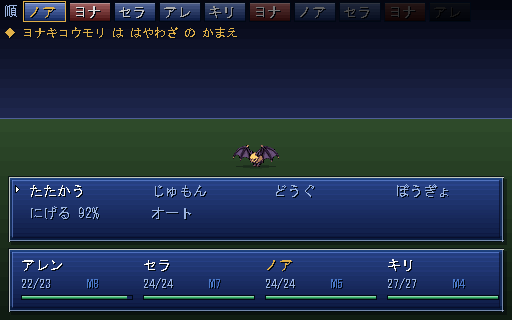
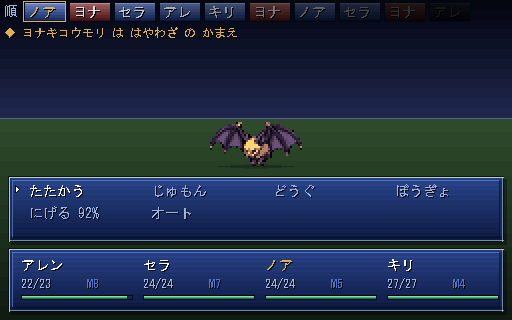
C-3 敵を整数倍（2 倍）で見せる
等倍で出していたので顔も装備も主の格も潰れていた。48x48 や 64x64 を 512x320 に
そのまま置くと SFC 期の敵より小さい。最近傍の 2 倍にした。半端な倍率は使わない
（ドットが滲む）。

位置・影・カーソル・状態・数字を、すべて表示矩形から計算し直した。絵の元寸から
計算していると倍率を変えるたびに全部がずれる。1 行に何体置けるかも表示寸法から
決める（いちばん広い絵に合わせる）。48px が主体で 64px は単体で出る主だけなので、
2 倍でも 3 体並びが収まる。6 体は 2 段で、奥は上へ逃がして右へずらす。

--shot=boss が世界を撮っていたのも直した（_enter_world() の暗転と主戦の閃光が
かち合っていたので、撮影では戦闘だけを立てる）。

Changed region(s): [[0.4062, 0.375, 0.5938, 0.5312]]

diff --git a/tools/tasks_status.py b/tools/tasks_status.py
@@ -4,7 +4,11 @@
 
 終わった項目は tasks.md から消して docs/tasks_archive.md へ移す運用なので、
 tasks.md だけを見ると「ずっと [ ] のまま」に見えて、進んでいないように読める。
-済んだ件数と直近の 5 件を先頭に置いて、動いていることがファイル内で分かるようにする。
+完了記録の行数と直近の 5 行を先頭に置いて、動いていることがファイル内で分かるようにする。
+
+`docs/tasks_archive.md` は現状「1 タスク = 1 行」ではない。ここで数える `- ` は
+完了タスク数ではなく、完了記録の箇条書き行数である。タスクIDから正しい件数を
+出せるようになるまでは、完了件数とは呼ばない。
 
 棚卸し（項目を控えへ移す）をしたら、これを回してヘッダを更新すること。
 """
@@ -20,13 +24,14 @@ done = [ln for ln in archive_text.split("\n") if ln.startswith("- ")]
 recent = done[-5:][::-1]
 
 body = tasks.read_text(encoding="utf-8")
-# 既存のヘッダ（進み具合）を捨ててから付け直す
-body = re.sub(r"## 進み具合.*?(?=## 次にやる)", "", body, flags=re.S)
+# 既存のヘッダ（進み具合）だけを捨ててから付け直す。
+# 完了Gateは進み具合と次の仕事の間にあるので、そこまで消さない。
+body = re.sub(r"## 進み具合.*?(?=## 完了Gate|## 次にやる)", "", body, flags=re.S)
 open_items = len(re.findall(r"^- \[ \]", body, flags=re.M))
 
 header = f"""## 進み具合
 
-**済んだこと {len(done)} 件 / 残り {open_items} 件。**
+**完了記録 {len(done)} 行（実タスク数は再集計待ち） / 残り {open_items} 件。**
 
 終わった項目はここから消して `docs/tasks_archive.md` へ移すので、
 このファイルに `[x]` は残らない。**動いているかどうかは下の「直近に済んだこと」で見る。**
@@ -40,5 +45,10 @@ for line in recent:
 header += "\n"
 
 body = body.replace("## 次にやる", header + "## 次にやる", 1)
-tasks.write_text(body, encoding="utf-8")
-print("済 %d / 残 %d, tasks.md %d 行" % (len(done), open_items, len(body.split("\n"))))
+# Windows でも Markdown は LF に固定する。既存ファイルへ CRLF を混ぜると、
+# `git diff --check` が全追記行を末尾空白として誤検出する。
+with tasks.open("w", encoding="utf-8", newline="\n") as handle:
+    handle.write(body)
+print("完了記録 %d 行 / 残 %d 件, tasks.md %d 行" % (
+    len(done), open_items, len(body.split("\n"))
+))

diff --git a/docs/task_completion_audit.md b/docs/task_completion_audit.md
@@ -1,0 +1,95 @@
+# 完了タスク実情監査
+
+2026-07-31、`docs/tasks_archive.md` の完了記録を現行実装へ逆照合した。
+「ファイルがある」「テスト名がある」ではなく、実行時の結果と、
+検査が失敗側を捕まえるかを完了基準にした。
+
+## 結論
+
+標準検査は一見すべて緑だが、完了とは言えない偽陽性が残っていた。
+未達を `tasks.md` の **棚卸再開 D-1〜D-6** へ戻した。
+町生成ルールの不一致は、既に再開済みの **C-8** で扱う。
+
+| 対象 | 実測 | 判定 |
+| --- | --- | --- |
+| 決定性・データ | `test_core.gd`: 318成功／0失敗 | 通過。ただし未実装が残ることを成功にする検査あり |
+| UI枠 | `check_ui.py`: 23画面、はみ出し0 | 通過。ただし語の直書きと漢字12pxは対象外 |
+| 音 | `verify_audio.py`: 全BGM・SE通過 | 通過 |
+| 候補画像 | `check_candidates.py`: 108／132通過 | 助言用。失敗24件があっても終了コード0 |
+| 実行時アセット | 職15/15、NPC17/17、敵36/36、イベント演出1/4 | 部分接続でも終了コード0 |
+| バランス | 200ラン全周: 到達35%、勝利33% | 目標の到達33%／勝利14%から勝利側が逸脱 |
+
+画面検査後、ユーザーセーブは監査前のSHA-256
[1 lines of base64/hex data omitted]
+へ復元した。
+
+## 未解決だった実情
+
+### D-1: イベントの「効果あり」という表示が事実ではない
+
+`src/quest/event_effects.gd` は11トークンを `INFORMATIONAL` に置き、
+説明だけ出して状態を変えない。対象は64イベント中60件、
+192選択肢中139件に及ぶ。`test_core.gd` は
+「`INFORMATIONAL.size() > 0`」を成功条件にしており、未実装を固定している。
+
+Gateは、既知トークンであることではなく、各トークンが成功時に対応する状態を変え、
+支払不能・危険不発・フォールバックも期待どおりになることを見る。
+
+### D-2: バランス測定が実プレイの部品を通り切っていない
+
+`balance.gd` は戦闘・世界・洞・番人を共有している一方、
+町の宿、店の購入、宝箱、世界イベント、途中で得た装備を使わない。
+現在の固定200ランでは全周71回到達・67回勝利で、到達後の主戦勝率は94%。
+それでも総勝率8〜45%なら「妥当」とするため、目標14%からの逸脱を落とさない。
+
+Gateは、同じシードと方針について実プレイ側とシミュレータ側の
+移動・遭遇・取得・イベント・装備・主戦の列をダイジェスト化して一致させる。
+経路一致後に初めて到達率と勝率の帯を合否に使う。
+
+### D-3: LLMの接続境界が規約と違う
+
+規約は `src/game/chronicle.gd` の1か所だけを接続点とするが、
+実際の `LocalAI.new()` は `src/scenes/main.gd` と
+`src/game/chronicle_ai.gd` の2か所にある。前者は封名とイベント表層を
+プレイ中に要求する。文章だけの差し替えでも、接続点が1か所というGateは満たさない。
+
+Gateでは生成箇所を静的に1件へ限定し、AI成功・失敗・タイムアウトの三経路で
+セーブ、乱数位置、世界構造、イベント結果のダイジェストが一致することを見る。
+
+### D-4: アセットGateが部分接続を成功扱いする
+
+`check_assets.py` はイベント演出を「生成4／参照1」と正しく数える一方、
+部分接続は失敗にせず、最後に「生成済みのものはすべて参照」と表示する。
+検出と合否が分離しているため、完了Gateとしては偽陽性になる。
+
+Gateでは、生成物ごとに「参照済み」またはID付きallowlistのどちらかを要求する。
+生成済みの1枚を参照表から外したfixtureで、終了コード1になることも固定する。
+
+### D-5: 文字規約をUI検査が見ていない
+
+`check_ui.py` は窓からのはみ出しだけを見る。`Terms` を通さない表示文や、
+`PixelUI.SIZE_SUB`（12px）へ漢字を渡す違反は通る。
+現行にもNPC台詞の `north`、イベント画面の「手ばなす」「見送る」などがある。
+
+Gateは描画時に文字列、サイズ、呼び出し元を記録し、漢字14px未満を失敗にする。
+固定UIラベルは `Terms`、差し替える物語語はVocabularyまたは表示用dataから渡し、
+Viewの固定文言直書きを検出する。
+
+### D-6: 「済んだこと194件」はタスク件数ではない
+
+`tools/tasks_status.py` は `docs/tasks_archive.md` の `- ` で始まる全行を数える。
+一つの実装に複数の理由があれば複数件になり、タスクIDもGate証跡も見ていない。
+したがって現在の194は「完了記録の箇条書き行数」であり、完了タスク数ではない。
+
+Gateは全タスクへ一意のIDを付け、控えを1タスク1記録にする。
+完了記録には `Gate:`、実行日、結果を必須とし、ID重複、証跡欠落、
+未完了一覧との重複を終了コード1にする。
+
+## 今後、控えへ移す条件
+
+1. タスク本文の `Gate:` がすべて緑。
+2. 検査器を追加・変更した場合は、壊したfixtureが赤になる。
+3. 見た目は代表画像を保存して目視し、画像パスを控えへ残す。
+4. 数値変更は実プレイと `balance.gd` の両方を残す。
+5. 既知の未実装を別タスクへ分ける場合、双方のIDを相互に記載する。
+6. 控えへはコマンド、結果、日付を含む1件だけを書き、理由の箇条書きを件数に数えない。

diff --git a/tasks.md b/tasks.md
@@ -11,9 +11,20 @@
 
 ---
 
+## 完了Gate
+
+- **コードや画像が「ある」だけでは完了にしない。** 実行時に通る経路と結果を見る。
+- 各タスクを控えへ移す前に、項目内の `Gate:` を実行し、コマンド・結果・日付を
+  `docs/tasks_archive.md` の同じタスクIDへ1件で残す。
+- 検査器を作るタスクは、正常系だけでなく**意図的に壊した入力で終了コード1**も確認する。
+- `INFORMATIONAL`、既知の未接続、手動確認待ちは完了ではない。別の未完了タスクへ
+  ID付きで分離した場合だけ、元タスクを閉じてよい。
+- 見た目は代表画面を保存して目視、音は `verify_audio.py`、数値は `balance.gd`、
+  決定性は `test_core.gd` を通す。詳細は `docs/task_completion_audit.md`。
+
 ## 進み具合
 
-**済んだこと 194 件 / 残り 17 件。**
+**完了記録 198 行（実タスク数は再集計待ち） / 残り 22 件。**
 
 終わった項目はここから消して `docs/tasks_archive.md` へ移すので、
 このファイルに `[x]` は残らない。**動いているかどうかは下の「直近に済んだこと」で見る。**
@@ -21,11 +32,11 @@
 
 ### 直近に済んだこと
 
+- **`--shot=boss` が世界を撮っていた。** `_enter_world()` の暗転と主戦の閃光が
+- 48px が主体で 64px は単体で出る主だけなので、2 倍でも 3 体並びが収まる。
+- **位置・影・カーソル・状態・数字を、すべて表示矩形から計算し直した。**
+- **等倍で出していたので顔も装備も主の格も潰れていた。** 48x48 や 64x64 を
 - **敵の絵は誤報だった。** `check_assets.py` が接頭辞で探していたが、敵の絵は
-- **役ごとに言うことを変えた。** 全員が世間話をすると町が背景になる。
-- **NPC を 6/17 → 17/17。** もとは 4 役を主人公の絵に割り当てていた。
-- **`--shot=` がタイトルを撮っていたのは私が入れた行のせいだった。**
-- **地図の外を先に塗る。** 町は 20〜30 タイルで画面（32）より狭く、余った側に
 
 ## 次にやる（効き目の大きい順）
 
@@ -93,11 +104,6 @@ Codex は**データと設計だけ**を出している（`data/cross_world_arcs
       併せて、危険度10へ到達したのに「最も危険: 1」と出る集計と、
       世界↔町の2状態反復を検出できない詰まり判定を直す。
 
-- [ ] **[Codex追記 C-3] 戦闘の敵を整数倍で見せる。**
-      48x48・64x64を512x320へ等倍表示しているため、帝国兵の顔と装備、
-      ボスの格が消えている。最近傍2倍を基準に、1〜6体の配置、影、カーソル、
-      状態表示、ダメージ数字を表示矩形から計算し直す。半端な倍率は使わない。
-
 - [ ] **[Codex追記 C-4] 戦闘背景6種を生物相へ接続する。**
       現在は紺の空と地面の階調だけで、追加敵が広い空白に浮いて見える。
       `candidate_battle_bg_*` を生成器から `assets/backgrounds/` へ出し、
@@ -132,6 +138,37 @@ Codex は**データと設計だけ**を出している（`data/cross_world_arcs
       単純な能力合計ではなく、職業ごとの物理・魔法・速度・耐久と装備効果の重みを
       明示し、手持ち1個を複数人へ配らない。同点は仲間ID・装備ID順で固定して
       乱数を使わず、代表職と複数個所持の割当をテストする。
+
+### 棚卸再開（2026-07-31）
+
+- [ ] **[棚卸再開 D-1] 表示だけで終わるイベント効果11種を実装する。**
+      64イベント中60件、192選択肢中139件が `INFORMATIONAL` を含む。
+      **Gate:** `INFORMATIONAL` を空にし、全トークンの状態変化と失敗側をテストする。
+
+- [ ] **[棚卸再開 D-2] `balance.gd` を実プレイと同じランへ戻す。**
+      現状は町・店・宝箱・イベント・取得装備を通らず、全周は到達35%／勝利33%
+      （到達後の勝率94%）なのに「妥当」と判定する。
+      **Gate:** 同一シード・方針の実プレイとイベント列を一致させ、500ランで
+      到達28〜38%／勝利10〜18%を外れたら終了コード1にする。
+
+- [ ] **[棚卸再開 D-3] LLM接続点を `chronicle.gd` の1か所へ戻す。**
+      `LocalAI.new()` は `main.gd` と `chronicle_ai.gd` の2か所にあり、プレイ中にも呼ぶ。
+      **Gate:** 接続生成は1か所だけ、AI有無でセーブ・乱数・進行のダイジェストが一致する。
+
+- [ ] **[棚卸再開 D-4] アセット検査の偽陽性をなくす。**
+      イベント演出が4枚中1枚接続でも `check_assets.py` は成功し、
+      「生成済みはすべて参照」と表示する。
+      **Gate:** 未接続1枚のfixtureで終了コード1。保留はID付きallowlistを必須にする。
+
+- [ ] **[棚卸再開 D-5] 表示語と漢字サイズの規約をGateにする。**
+      View直書きが残り、NPC台詞には `north`、12px表示には漢字が残っている。
+      **Gate:** UIラベルは `Terms` 等の表示データ経由、漢字14px未満を機械検出し、
+      `check_ui.py` の23画面と違反fixtureの両方を通す。
+
+- [ ] **[棚卸再開 D-6] 完了数をタスクIDから数える。**
+      `tasks_status.py` は控えの理由を示す全 `- ` 行を完了件数として数えている。
+      **Gate:** IDの重複・Gate証跡なし・未完了との重複で終了コード1になり、
+      完了数＋未完了数が一意のID総数と一致する。
 
 ---
 

diff --git a/docs/tasks_archive.md b/docs/tasks_archive.md
@@ -719,3 +719,16 @@
   接頭辞を持たない（`assets/sprites/<敵id>.png`）。36/36 で繋がっていた。
   **嘘をつく関門は無いより悪い**ので、`data/monsters.json` の名前と突き合わせる
   形に直した。
+
+## 2026-07-31（C-3 敵を整数倍で見せる）
+
+- **等倍で出していたので顔も装備も主の格も潰れていた。** 48x48 や 64x64 を
+  512x320 にそのまま置くと、SFC 期の敵より小さい。最近傍の 2 倍にした。
+  **半端な倍率は使わない**（ドットが滲む）。
+- **位置・影・カーソル・状態・数字を、すべて表示矩形から計算し直した。**
+  絵の元寸から計算していると、倍率を変えるたびに全部がずれる。
+  1 行に何体置けるかも表示寸法から決める（いちばん広い絵に合わせる）。
+- 48px が主体で 64px は単体で出る主だけなので、2 倍でも 3 体並びが収まる。
+  6 体は 2 段。奥の段は上へ逃がして右へずらす（真上だと 1 体に見える）。
+- **`--shot=boss` が世界を撮っていた。** `_enter_world()` の暗転と主戦の閃光が
+  かち合っていたので、撮影では世界へ入り直さず戦闘だけを立てる。
